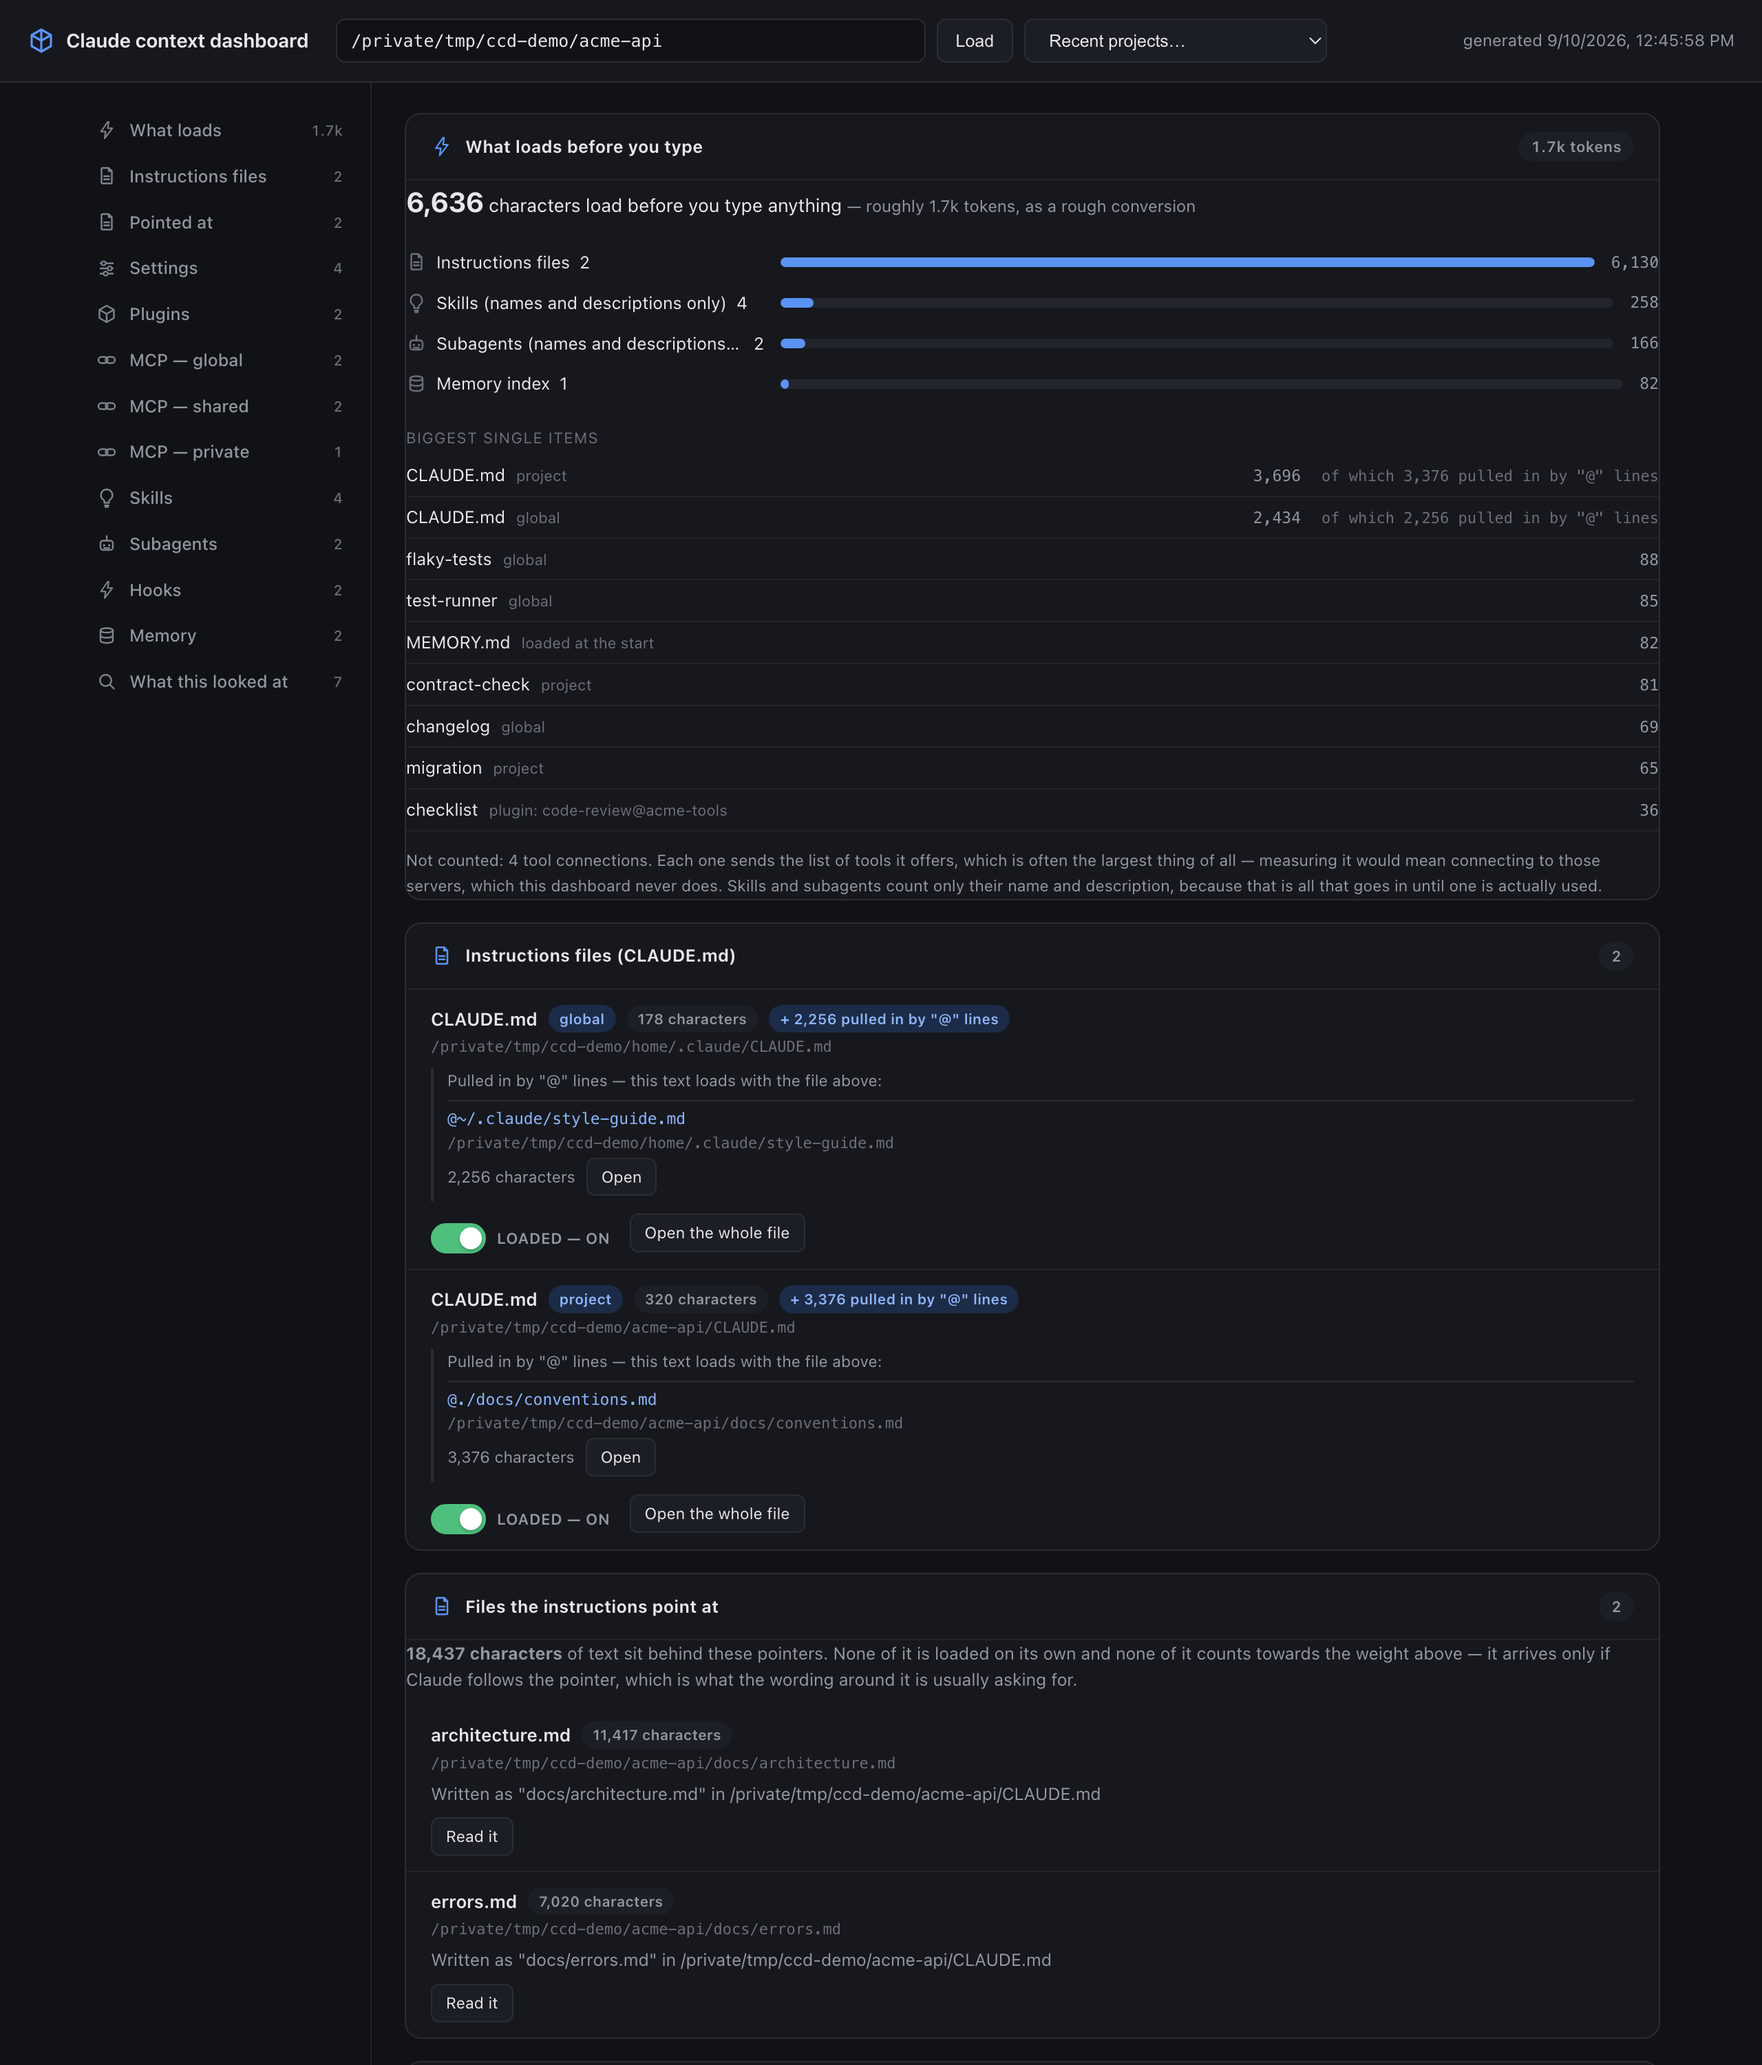
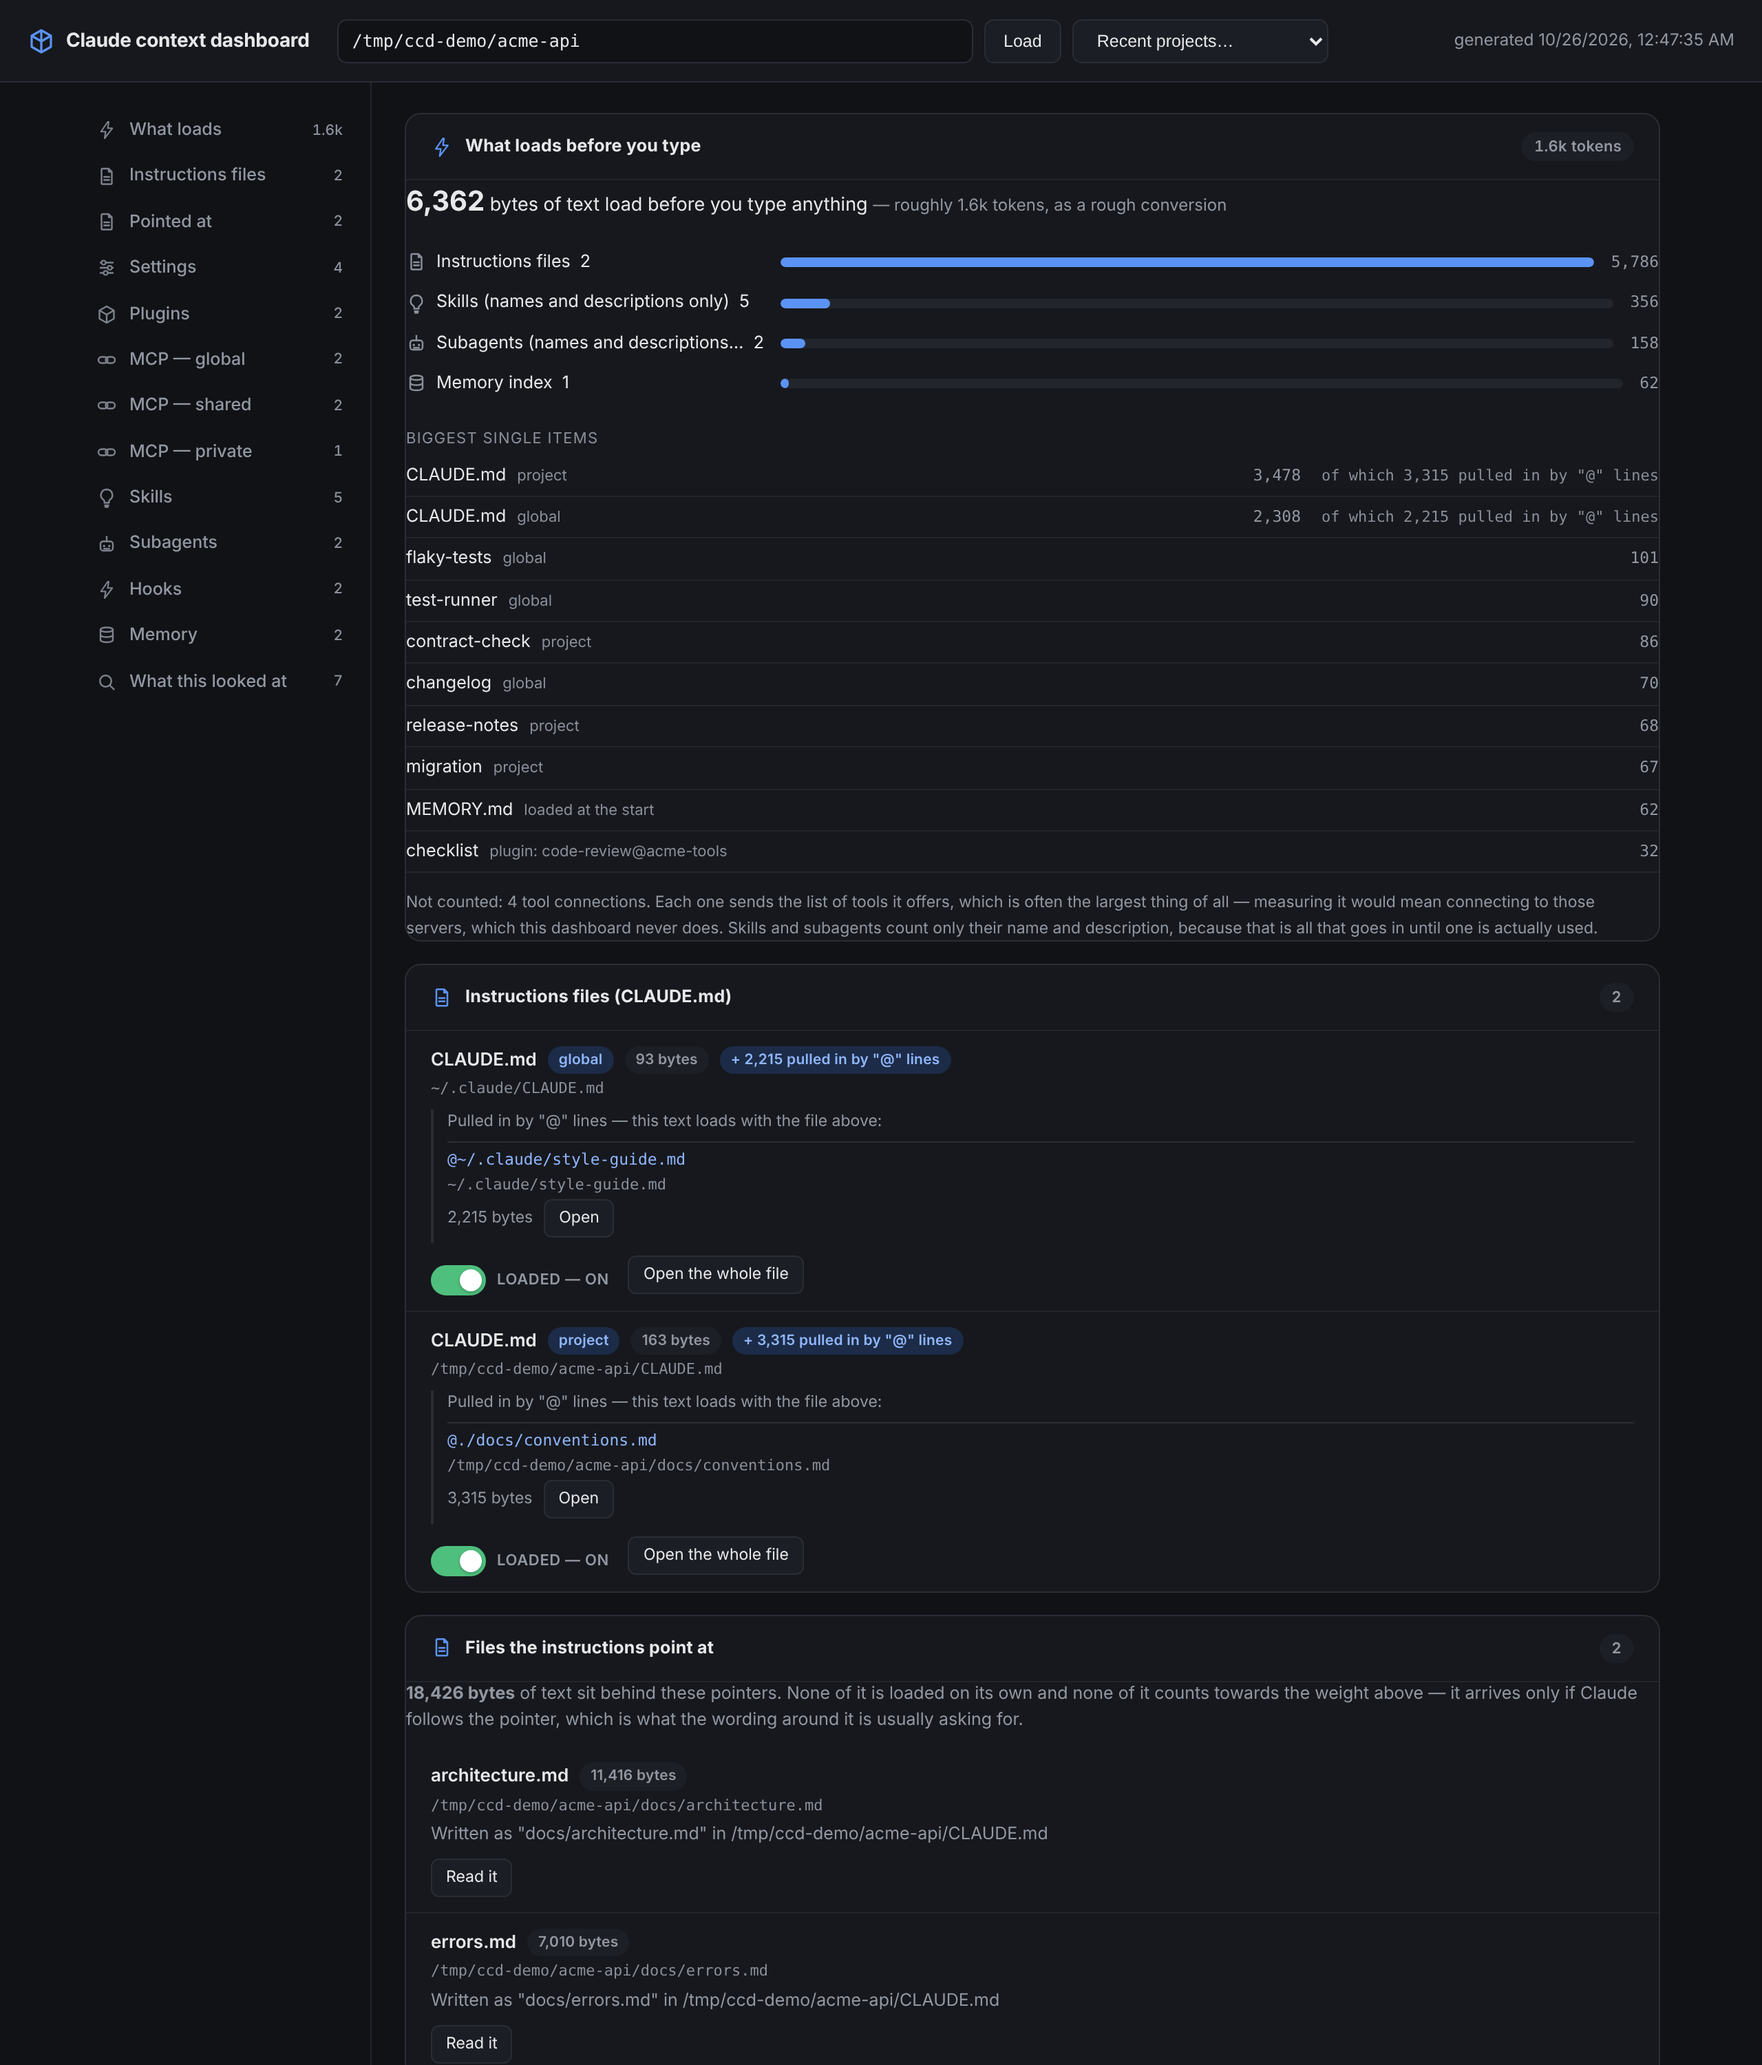
Release 0.2.0 (#4)
* Prepare 0.2.0: version bump and release notes

CHANGELOG.md leads with what users will notice on upgrading (open the
whole printed address; linked skill folders ask first; some outside
imports are read-only), then the security, data-safety and page changes
from #1-#3. It ships in the package.

Claude-Session: https://claude.ai/code/session_01QNxQzSsAQdUpQ9KYGWFpod

* Retake README screenshots for 0.2.0

Same fictional demo as before; they now show sizes in bytes, the plain
wording for undecided switches, and paths under home as ~.

Claude-Session: https://claude.ai/code/session_01QNxQzSsAQdUpQ9KYGWFpod

---------

diff --git a/CHANGELOG.md b/CHANGELOG.md
@@ -1,0 +1,80 @@
+# Changelog
+
+## 0.2.0 — 2026-10-26
+
+A security and data-safety release. Upgrading changes how you open the
+dashboard; read the first section before you do.
+
+### What you will notice
+
+- **Open the whole address the terminal prints.** Each launch makes a random
+  key and prints `http://localhost:4317/#token=…`. The page needs that key, so
+  a bookmark of plain `http://localhost:4317/` shows a message asking you to
+  open the printed address instead. Within a tab, reloading keeps working. The
+  macOS desktop launcher picks the key up by itself.
+- **Saving through a linked skill or subagent folder asks first.** If a
+  project's `.claude/skills` or `.claude/agents` folder is a link to somewhere
+  outside the project, saving, restoring or switching a file there now asks
+  you to confirm, naming where the file really lives.
+- **Some files you could edit are now read-only.** A file that a project's
+  `CLAUDE.md` pulls in with an `@` line from outside the project and
+  `~/.claude` (for example `@~/.bashrc`) opens in the viewer but can't be
+  saved. Files your own global `CLAUDE.md` names directly stay editable.
+- **One click to turn something off for one project.** A "this project"
+  switch that follows the global setting now flips what is actually happening
+  on the first click, instead of the second.
+- **Results show in a status line** instead of pop-ups, and say which file
+  was written and whether a backup was kept.
+- **Sizes are labelled as bytes**, which is what was always measured.
+
+### Security
+
+- Every API request needs the per-launch key. Other programs and other users
+  on the machine can no longer read or change your config through the
+  dashboard by sending requests to `localhost` themselves.
+- A cloned repository can no longer make files of yours editable by naming
+  them in an `@` line, directly or through a chain of imports.
+- A repository that links `.claude` to your global `~/.claude` can no longer
+  turn a "this project" switch into a change to every project, under any
+  spelling of that folder.
+- Reading a project no longer hangs on a device or pipe named in an `@` line,
+  and very large files are capped instead of read whole.
+- The desktop launcher's log moved out of the world-readable `/tmp`.
+
+### Data safety
+
+- Saving a large file with non-ASCII text no longer corrupts characters.
+- Two files can no longer share backups. Backups taken under the old naming
+  are still listed for comparison but can't be put back, since which file
+  they came from can't be known.
+- Putting a version back restores its exact bytes.
+- The check for a file changed by another Claude Code session is stronger and
+  runs again just before writing.
+- A file of an unexpected shape (for example a `permissions.allow` that isn't
+  a list) is refused instead of overwritten.
+- A malformed plugin record or server list shows a warning in its own section
+  instead of taking the whole page down.
+- When the backup folder is over budget, space comes back from the file using
+  the most, so one large `~/.claude.json` no longer wipes everything else's
+  history.
+
+### Page
+
+- Works at phone width; muted text and off switches meet contrast guidelines
+  in light and dark themes.
+- Switches are announced as switches by screen readers, focus stays in place
+  after an action, and the editor keeps focus inside it while open.
+- Enter in the path box loads the project, the address bar tracks the project
+  you're viewing, and a mistyped path keeps the current page on screen.
+- Adding a permission rule to the global settings, or one that doesn't look
+  like a rule, asks first.
+
+### Project
+
+- Tests grew from 51 checks to 472 across three suites, and CI runs them on
+  Node 18, 20 and 22 on Linux and macOS.
+- `docs/reference.md` describes every behavior above.
+
+## 0.1.0
+
+First release.
